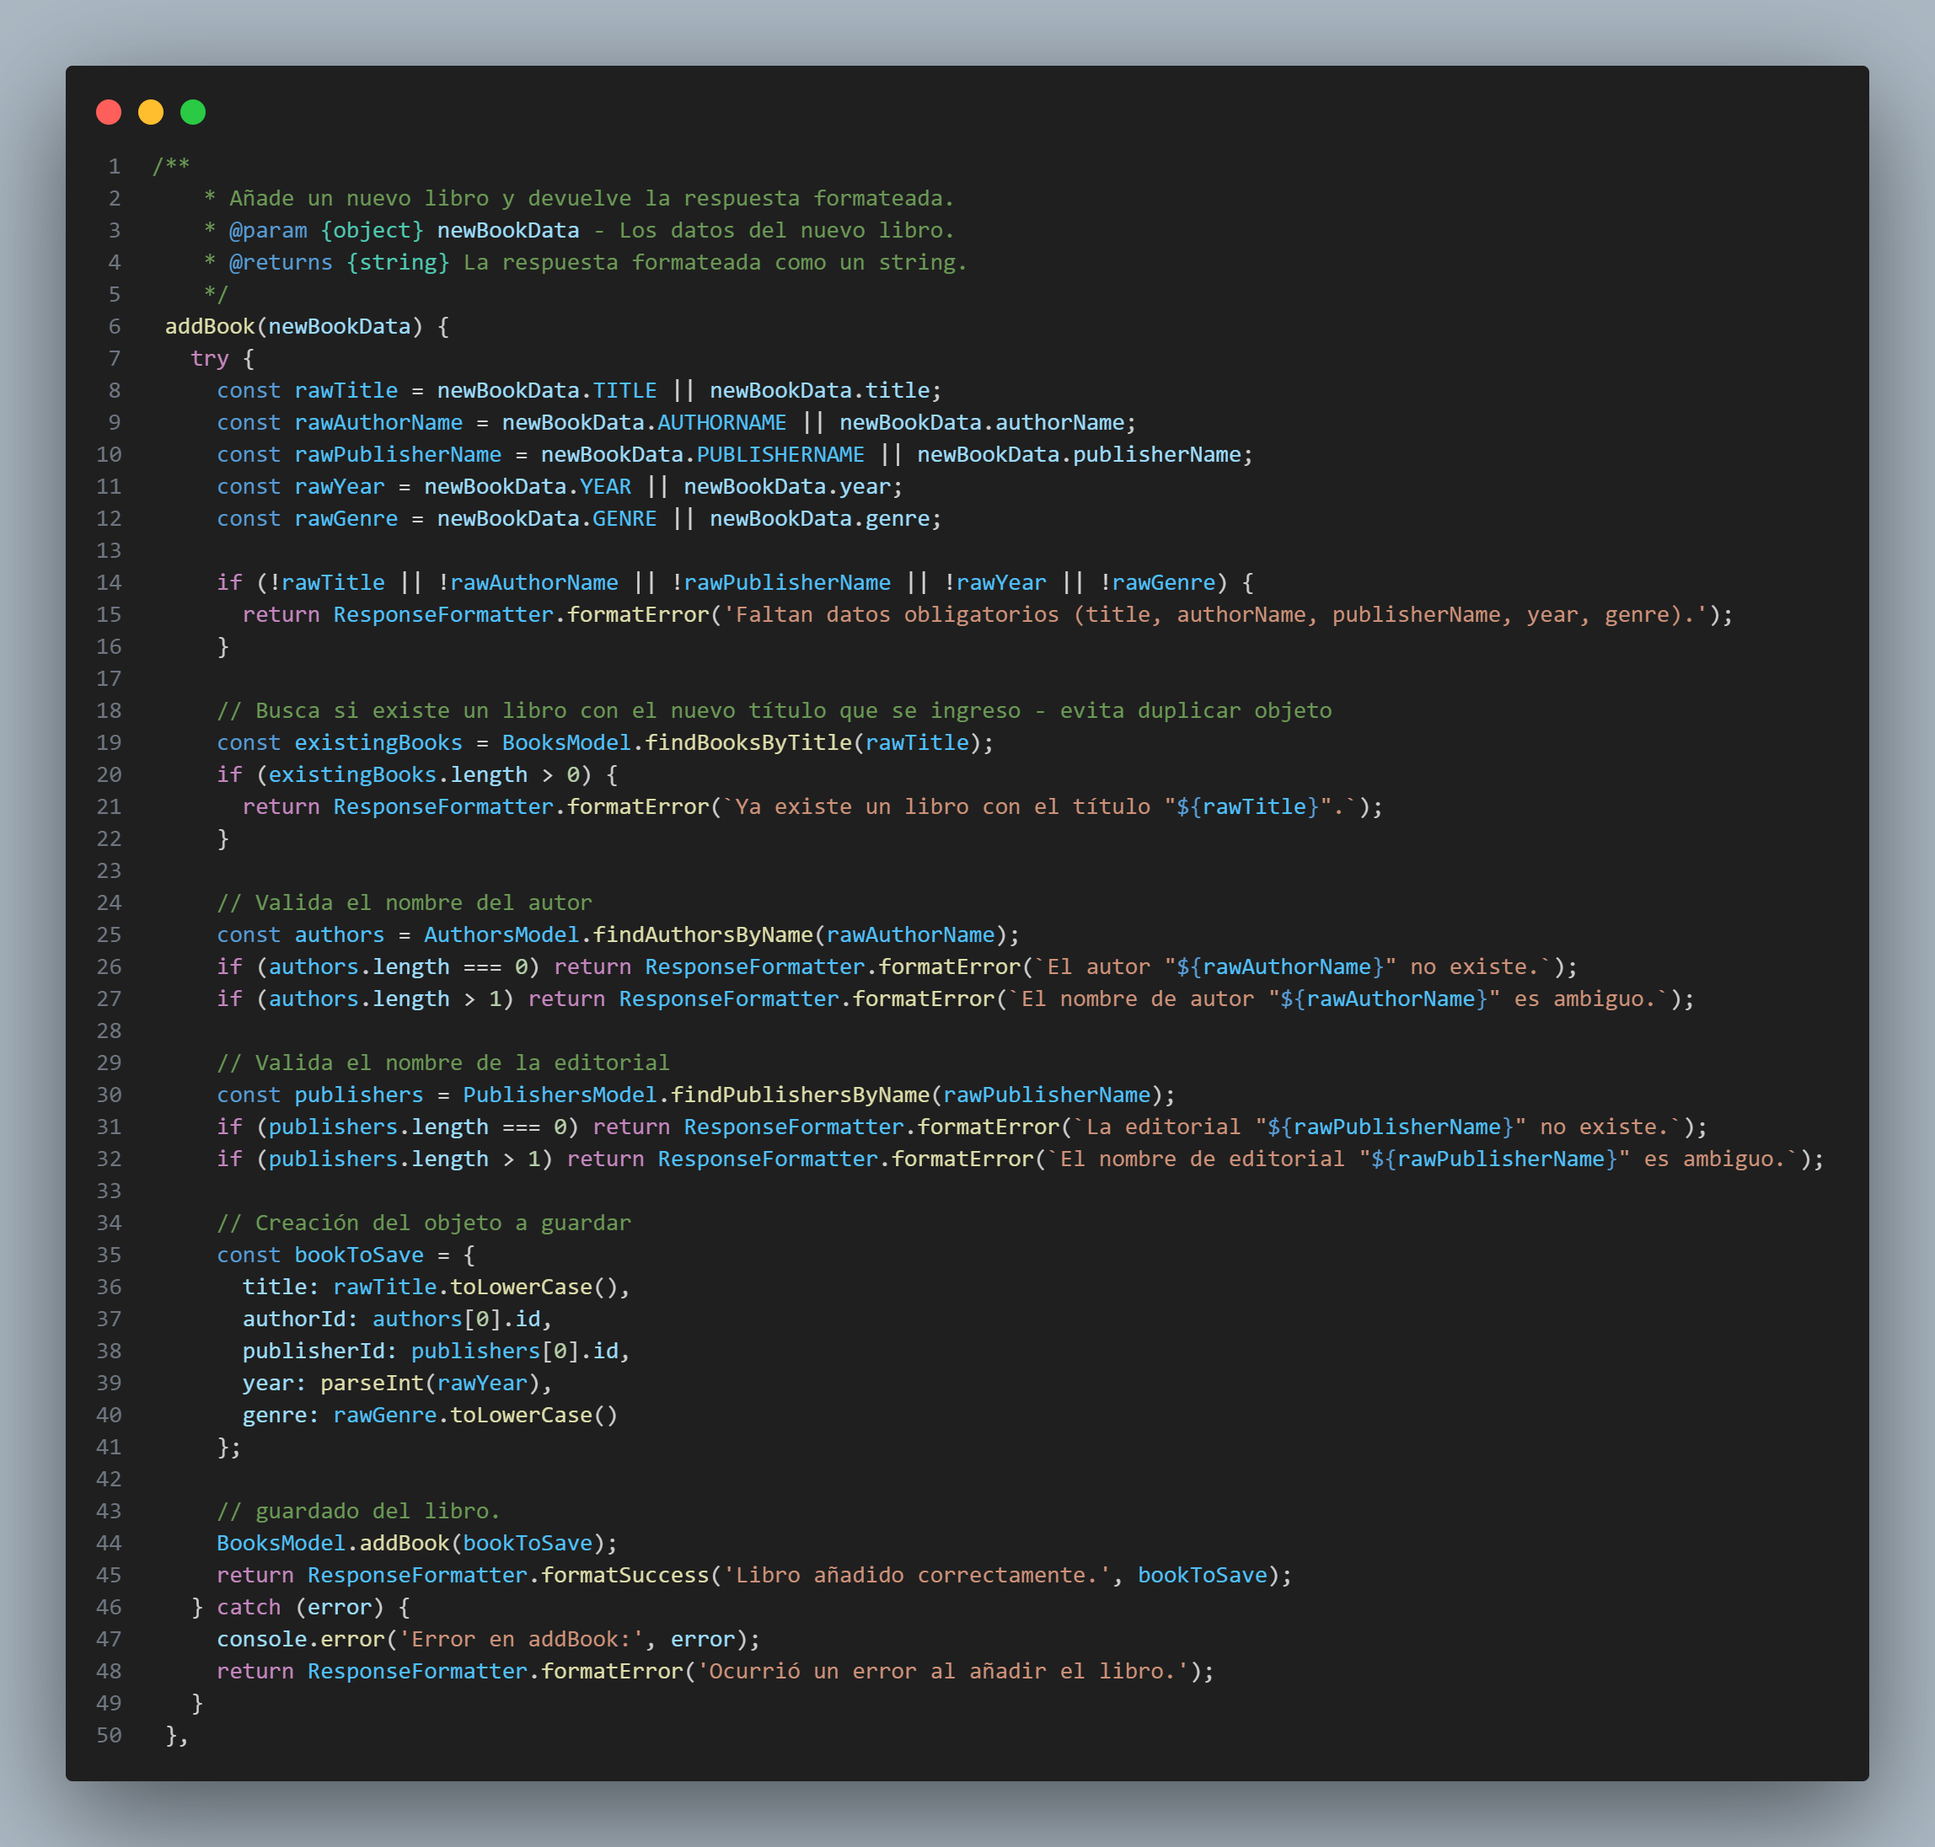
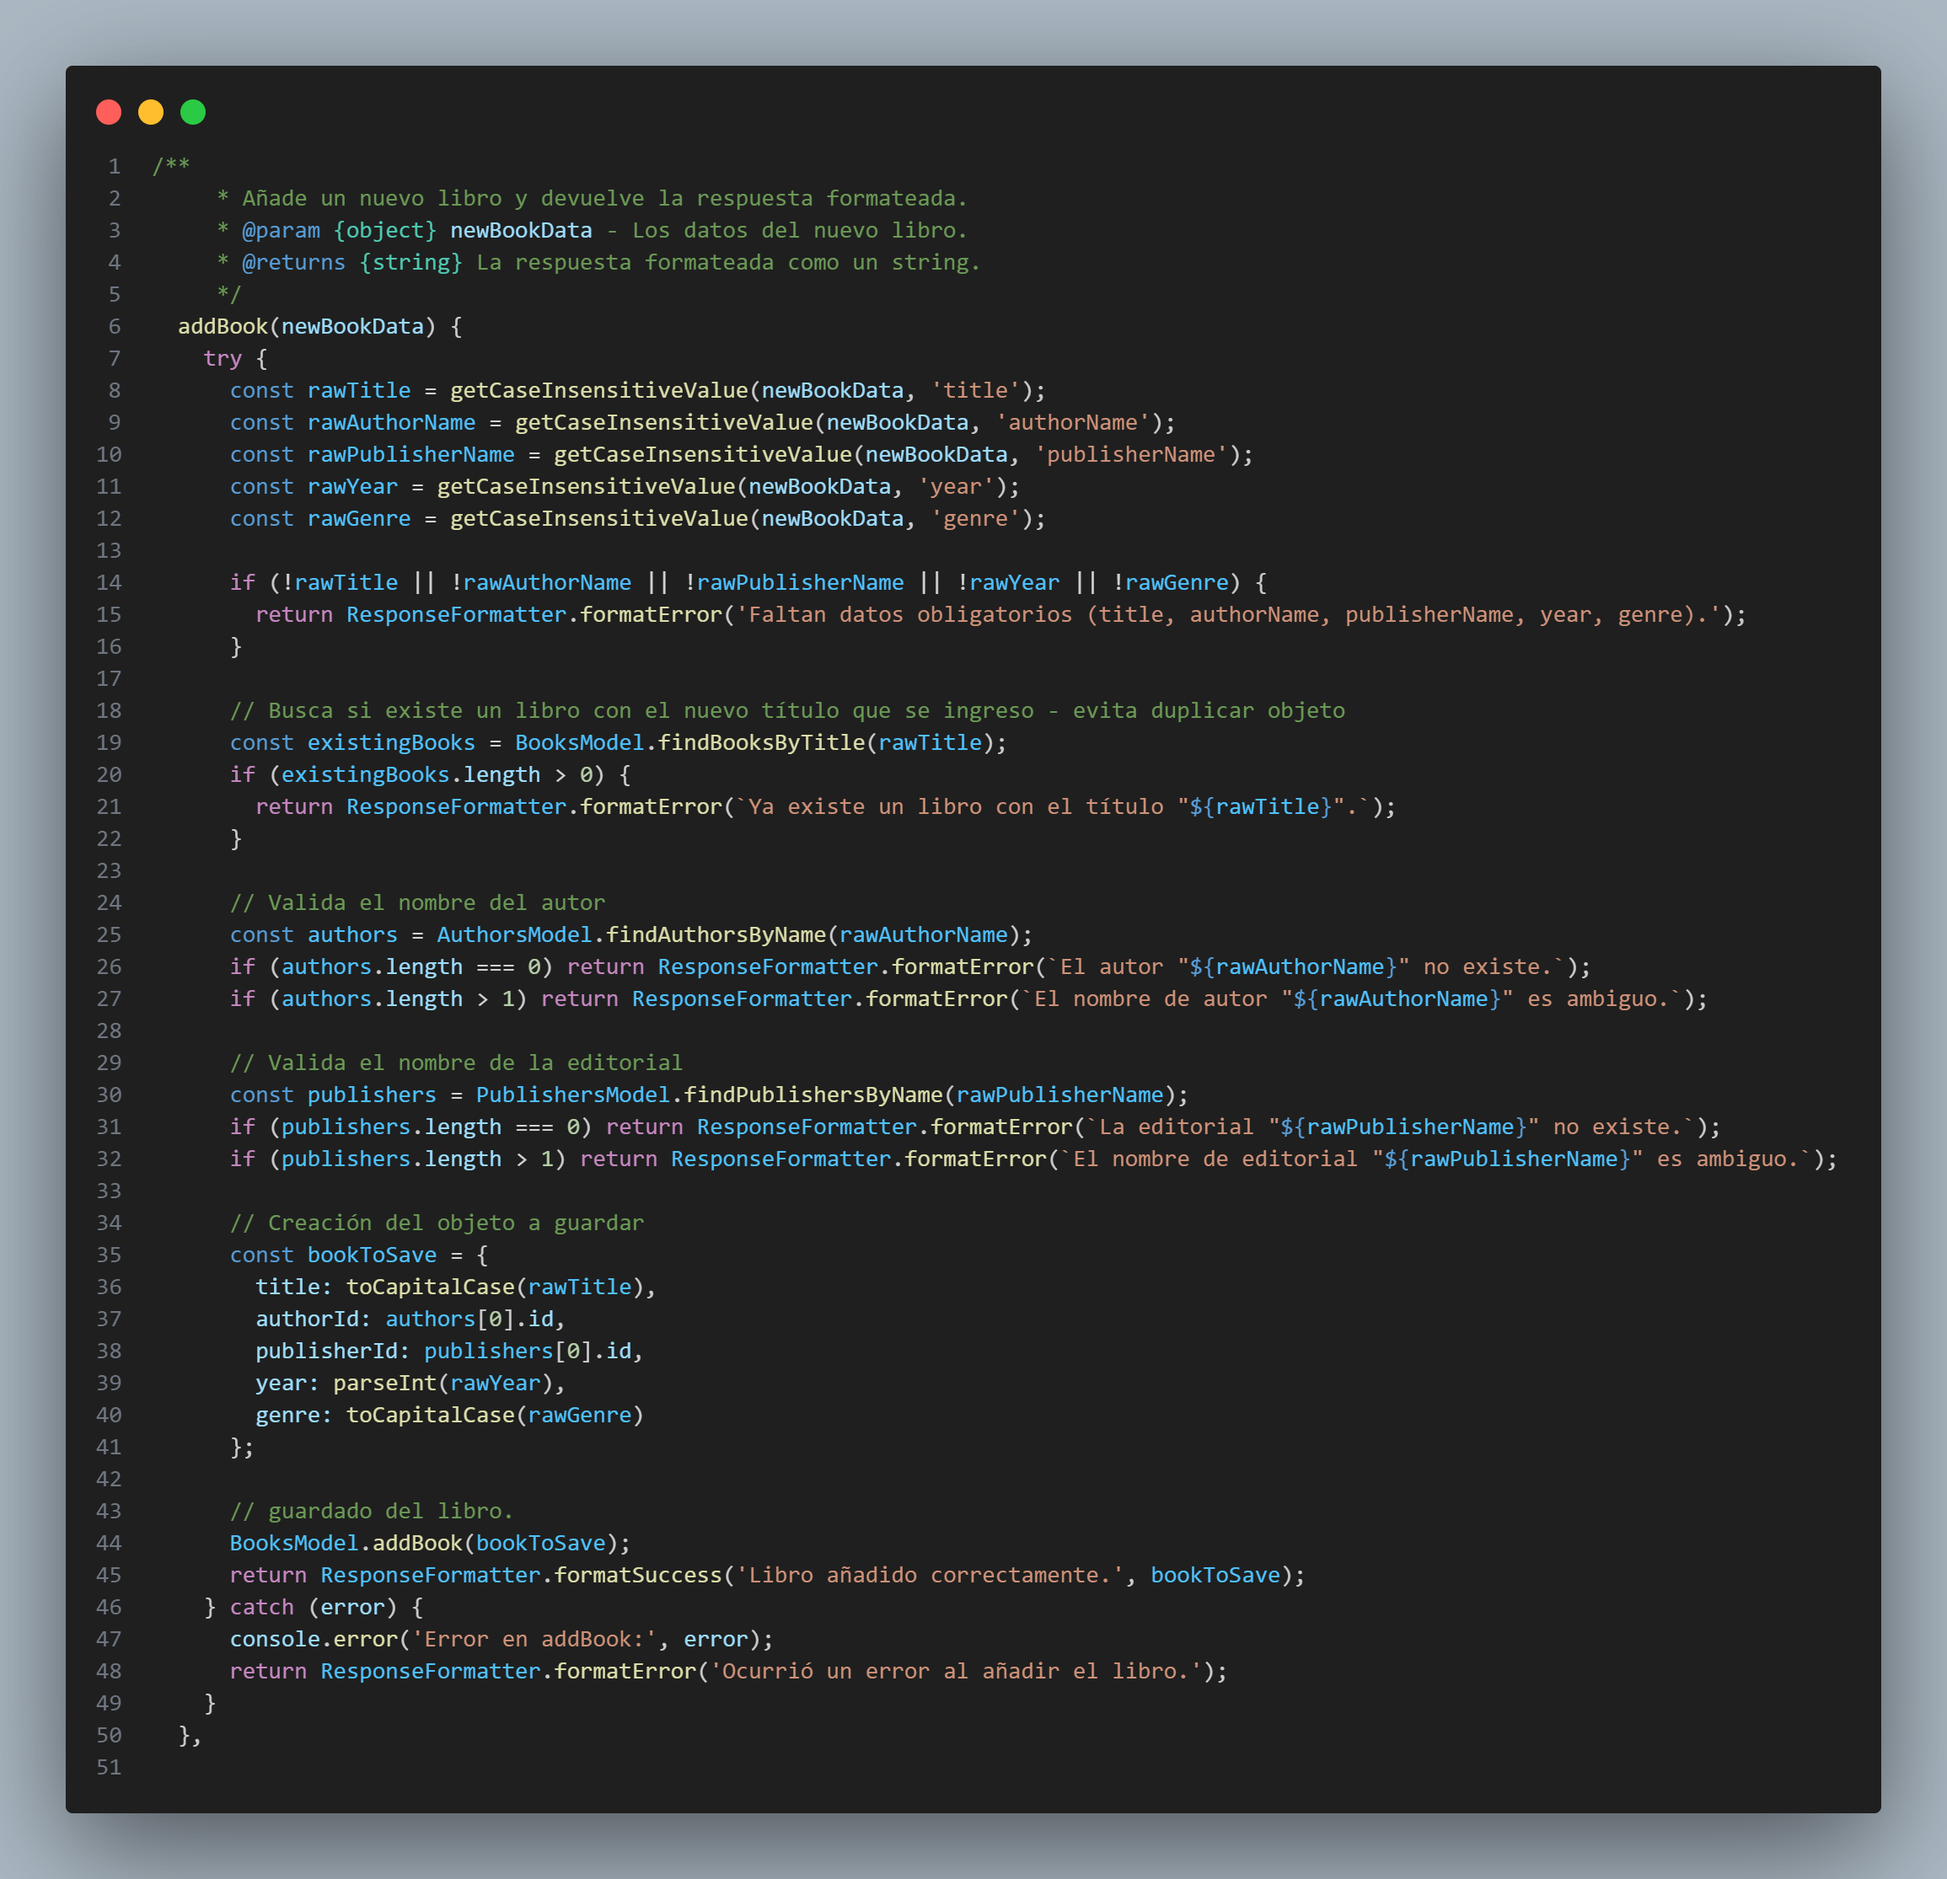
agregado de refactorizacion en documentacion

diff --git a/docs/documentacion.md b/docs/documentacion.md
@@ -8,9 +8,9 @@ Este documento proporciona un análisis técnico detallado de la arquitectura y 
 
 El proyecto está diseñado siguiendo estrictamente el patrón de diseño **MVC** para garantizar una clara separación de responsabilidades, lo que resulta en un código más limpio, mantenible y escalable.
 
-*   **Modelo (`/src/models`)**: Es la capa de acceso a datos. Su única responsabilidad es interactuar directamente con la "base de datos" (los archivos `.json`).
-*   **Vista (`/src/views`)**: Es la capa de presentación. Su única responsabilidad es tomar los datos que le entrega el Controlador y darles un formato legible para la terminal.
-*   **Controlador (`/src/controllers`)**: Es la capa de lógica de negocio y el "cerebro" de la aplicación. Actúa como intermediario entre el Servidor, el Modelo y la Vista.
+- **Modelo (`/src/models`)**: Es la capa de acceso a datos. Su única responsabilidad es interactuar directamente con la "base de datos" (los archivos `.json`).
+- **Vista (`/src/views`)**: Es la capa de presentación. Su única responsabilidad es tomar los datos que le entrega el Controlador y darles un formato legible para la terminal.
+- **Controlador (`/src/controllers`)**: Es la capa de lógica de negocio y el "cerebro" de la aplicación. Actúa como intermediario entre el Servidor, el Modelo y la Vista.
 
 ## 3. Análisis por Capas y Archivos
 
@@ -21,8 +21,9 @@ Para la capa de modelos, se exploraron dos arquitecturas con diferentes niveles 
 #### **Versión 1: Modelos Autónomos (Enfoque Directo)**
 
 Esta es la implementación base, donde cada modelo es un archivo independiente.
-*   **Ventajas:** Es un enfoque muy directo y fácil de entender.
-*   **Desventajas:** Conduce a una significativa **duplicación de código**, violando el **principio DRY (Don't Repeat Yourself)**.
+
+- **Ventajas:** Es un enfoque muy directo y fácil de entender.
+- **Desventajas:** Conduce a una significativa **duplicación de código**, violando el **principio DRY (Don't Repeat Yourself)**.
 
 <div style="display: flex; justify-content: space-around;">
   <figure>
@@ -39,9 +40,9 @@ Esta es la implementación base, donde cada modelo es un archivo independiente.
 
 Para solucionar la duplicación, se propone una arquitectura más avanzada.
 
-**`utils/utils.js` (Módulo de Utilidades)**
+**`/src/utils` (Carpeta de Utilidades)**
 
-Centraliza todas las operaciones de bajo nivel con el sistema de archivos, siguiendo el Principio de Responsabilidad Única.
+Para maximizar la reutilización de código, se creó una carpeta `/utils` que contiene módulos con responsabilidades bien definidas. Por ejemplo, `utils/utils.js`centraliza todas las operaciones de bajo nivel con el sistema de archivos para los modelos, siguiendo el Principio de Responsabilidad Única.
 
 <figure align="center">
   <img src="./img/models-img/utils.png" alt="utils.js"/>
@@ -72,7 +73,7 @@ El resultado es que los modelos específicos se vuelven increíblemente simples 
 
 La capa de Vistas se centraliza en `views/responseFormatter.js`.
 
-*   **Funcionalidad Clave:** `formatSuccess()`, `formatError()` y `formatAsTable()` para una presentación de datos consistente, inteligente y dinámica. La función `formatAsTable()` se adapta a cualquier array de objetos, calculando anchos de columna para una alineación perfecta.
+- **Funcionalidad Clave:** `formatSuccess()`, `formatError()` y `formatAsTable()` para una presentación de datos consistente, inteligente y dinámica. La función `formatAsTable()` se adapta a cualquier array de objetos, calculando anchos de columna para una alineación perfecta.
 
 <figure align="center">
   <img src="./img/views-img/listarLibros.png" alt="listarLibros"/>
@@ -85,19 +86,35 @@ La capa de Vistas se centraliza en `views/responseFormatter.js`.
 
 La capa de Controladores es el **"cerebro"** de la aplicación, donde reside toda la lógica de negocio.
 
-*   **Lógica de Negocio Clave:**
-    *   **Prevención de Duplicados:** No permite agregar un ítem si ya existe uno con el mismo nombre/título.
-    *   **"Hidratación" de Datos:** Reemplaza los IDs de los libros por los nombres de autor y editorial.
-    *   **Restricción de Eliminación:** Impide eliminar un autor o editorial si tienen libros asociados, protegiendo la integridad de los datos.
+- **Lógica de Negocio Clave:**
+  - **Prevención de Duplicados:** No permite agregar un ítem si ya existe uno con el mismo nombre/título.
+  - **"Hidratación" de Datos:** Reemplaza los IDs de los libros por los nombres de autor y editorial.
+  - **Restricción de Eliminación:** Impide eliminar un autor o editorial si tienen libros asociados, protegiendo la integridad de los datos.
 
 <figure align="center">
   <img src="./img/controllers-img/deleteAuthor.png" alt="deleteAuthors"/>
   <figcaption> Implementación de la "restricción de eliminación" en <code>AuthorsController.js</code>.</figcaption>
 </figure>
 
+#### **Refactorización y Utilidades Clave (`/src/utils`)**
+
+Para evitar la repetición de código y mejorar la mantenibilidad dentro de los controladores, la lógica común de manipulación de datos fue extraída a módulos de utilidades, siguiendo los principios **DRY** y de **Responsabilidad Única**
+
+- **`utils/formatters.js`**: Centraliza funciones de formato de texto, como `toCapitalCase()`, garantizando una presentación de datos consistente.
+- **`utils/objectUtils.js`**: Proporciona herramientas para trabajar con los objetos de datos que llegan desde el cliente. Las funciones clave son:
+
+  - `getCaseInsensitiveValue()`: Permite obtener datos de un objeto sin preocuparse de si la clave está en mayúsculas o minúsculas (ej. `name` vs `NAME`).
+  - `buildUpdateObject()`: Una función potente y segura que construye el objeto de datos para las actualizaciones. Filtra solo los campos permitidos, aplica el formato correcto a los strings y convierte los números a su tipo correcto, previniendo errores de integridad de datos.
+    Esta refactorización hace que los métodos de los controladores, como `updateAuthor()`, sean mucho más limpios y se centren exclusivamente en la lógica de negocio.
+
 <figure align="center">
   <img src="./img/controllers-img/addBook.png" alt="addBook"/>
-  <figcaption> Ejemplo de validación múltiple en <code>BooksController.js</code>.</figcaption>
+  <figcaption> Ejemplo de validación múltiple y de <code>getCaseInsensitiveValue()</code> en <code>booksController.js</code>.</figcaption>
+</figure>
+
+<figure align="center">
+  <img src="./img/controllers-img/updatePublisher.png" alt="updatePublisher"/>
+  <figcaption> Empleo de <code>buildUpdateObject()</code> en <code>publishersController.js</code>.</figcaption>
 </figure>
 
 ---
@@ -108,10 +125,10 @@ La capa de Controladores es el **"cerebro"** de la aplicación, donde reside tod
 
 Actúa como un **enrutador (router)** delgado y eficiente, delegando toda la lógica a los controladores.
 
-*   **Responsabilidades:**
-    *   Crear el servidor TCP y manejar múltiples clientes.
-    *   Parsear los comandos entrantes.
-    *   Delegar la ejecución al controlador apropiado a través de un `switch` principal.
+- **Responsabilidades:**
+  - Crear el servidor TCP y manejar múltiples clientes.
+  - Parsear los comandos entrantes.
+  - Delegar la ejecución al controlador apropiado a través de un `switch` principal.
 
 <figure align="center">
   <img src="./img/server-img/switch.png" alt="switch - funcion"/>
@@ -122,10 +139,10 @@ Actúa como un **enrutador (router)** delgado y eficiente, delegando toda la ló
 
 Es la puerta de entrada para el usuario final, enfocado en una buena experiencia de usuario (UX).
 
-*   **Características Clave:**
-    *   **Menús Interactivos Guiados:** Utiliza menús numéricos para una interacción fluida y a prueba de errores.
-    *   **Flujos de Múltiples Pasos (Máquina de Estados):** Utiliza una variable de estado (`nextAction`) para manejar operaciones complejas como "Editar" y "Eliminar".
-    *   **Conexión Persistente:** Mantiene una única conexión con el servidor para mayor eficiencia.
+- **Características Clave:**
+  - **Menús Interactivos Guiados:** Utiliza menús numéricos para una interacción fluida y a prueba de errores.
+  - **Flujos de Múltiples Pasos (Máquina de Estados):** Utiliza una variable de estado (`nextAction`) para manejar operaciones complejas como "Editar" y "Eliminar".
+  - **Conexión Persistente:** Mantiene una única conexión con el servidor para mayor eficiencia.
 
 <figure align="center">
   <img src="./img/client-img/maquina_estados.gif" alt="Flujo de Edición Interactivo"/>
@@ -138,8 +155,8 @@ Es la puerta de entrada para el usuario final, enfocado en una buena experiencia
 
 Para garantizar la calidad y el correcto funcionamiento de la API, se ha creado un script de pruebas automatizado.
 
-*   **Propósito:** Ejecuta una secuencia predefinida de comandos que cubren el ciclo CRUD completo y las reglas de negocio.
-*   **Funcionalidad:** Sirve como una **prueba de regresión**, permitiendo verificar rápidamente que nuevos cambios no hayan roto la funcionalidad existente.
+- **Propósito:** Ejecuta una secuencia predefinida de comandos que cubren el ciclo CRUD completo y las reglas de negocio.
+- **Funcionalidad:** Sirve como una **prueba de regresión**, permitiendo verificar rápidamente que nuevos cambios no hayan roto la funcionalidad existente.
 
 ---
 
@@ -147,7 +164,7 @@ Para garantizar la calidad y el correcto funcionamiento de la API, se ha creado 
 
 A continuación se muestra un diagrama de flujo que ilustra la secuencia completa de interacciones entre las capas de la aplicación.
 
-```mermaid
+````mermaid
 sequenceDiagram
     participant Usuario
     participant Client
@@ -181,3 +198,4 @@ sequenceDiagram
     Server-->>-Client: 21. Envía respuesta final
     Client-->>-Usuario: 22. Muestra "Autor eliminado"
     ```
+````
